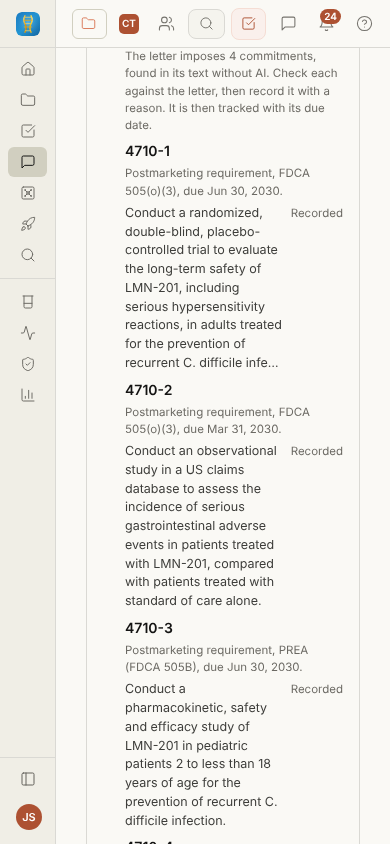
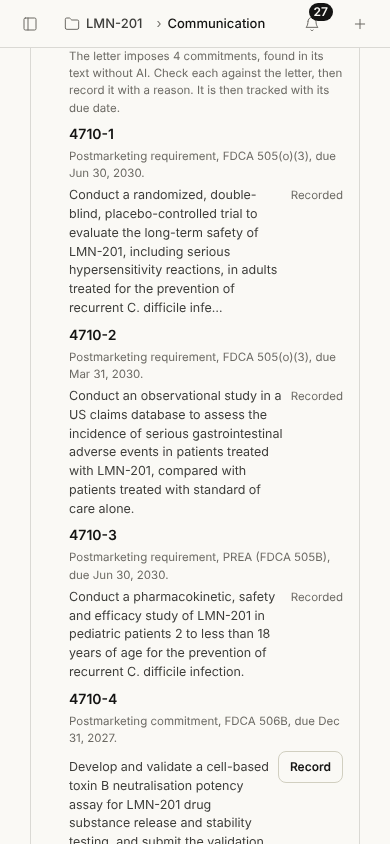
Extract-commitments walk: finds Projects' search box by its label, re-shot at 390 px
Trunk's Projects page (78842ee08e) dropped the "Search projects"
placeholder; its search box is labelled "Search projects by title or
code". The walk finds it by that label. Re-run with --narrow-only (nothing
recorded): every step passes, and 09-mobile-390-commitments.png shows the
commitment rows readable after the phone-width repair; the README's table
says so.

Plan: DATA
Completes: docs/evidence/DEMO/2026-11-01-extract-commitments

Claude-Session: https://claude.ai/code/session_011DpxUyQmE1enma4gTjcfBy

diff --git a/docs/evidence/DEMO/2026-11-01-extract-commitments/README.md b/docs/evidence/DEMO/2026-11-01-extract-commitments/README.md
@@ -152,7 +152,7 @@ Re-landed on `concept2cure-v2` on 2026-11-04, after this session reconciled onto
 | # | Defect | Fixed in |
 |---|---|---|
 | 1 | Meetings & commitments did not list a commitment recorded from a letter until re-read | `d9edfb1da3`: `onCommitmentRecorded` from `AgencyResponses` through the inbox to Communication's register version |
-| 2 | At 390 wide each commitment's text was 0px wide | Handed to the stylesheet holder (`.design/claude-convergence/COORDINATION.md`): `.cc-q-proposal` wraps and the text keeps a 16ch minimum. Not yet on trunk |
+| 2 | At 390 wide each commitment's text was 0px wide | The F1 phone-width commit beside this one: `.cc-q-proposal` wraps and the text keeps a 16ch minimum. Re-shot: `screenshots/09-mobile-390-commitments.png` |
 | 3 | Received date as a raw ISO instant; visibility tier "shared client c2c" | `ee7c051bca`: "received Oct 12, 2026"; "Your team and Concept2Cure" |
 | 4 | Commitment rows "due 2030-06-30", and no word of the letter they came from | `ee7c051bca`: "due Jun 30, 2030 · recorded from Approval letter" |
 | 5 | A letter that asks nothing told to record its questions by hand | `ee7c051bca`: it says it needs no response; the hint is on letters that owe one |
